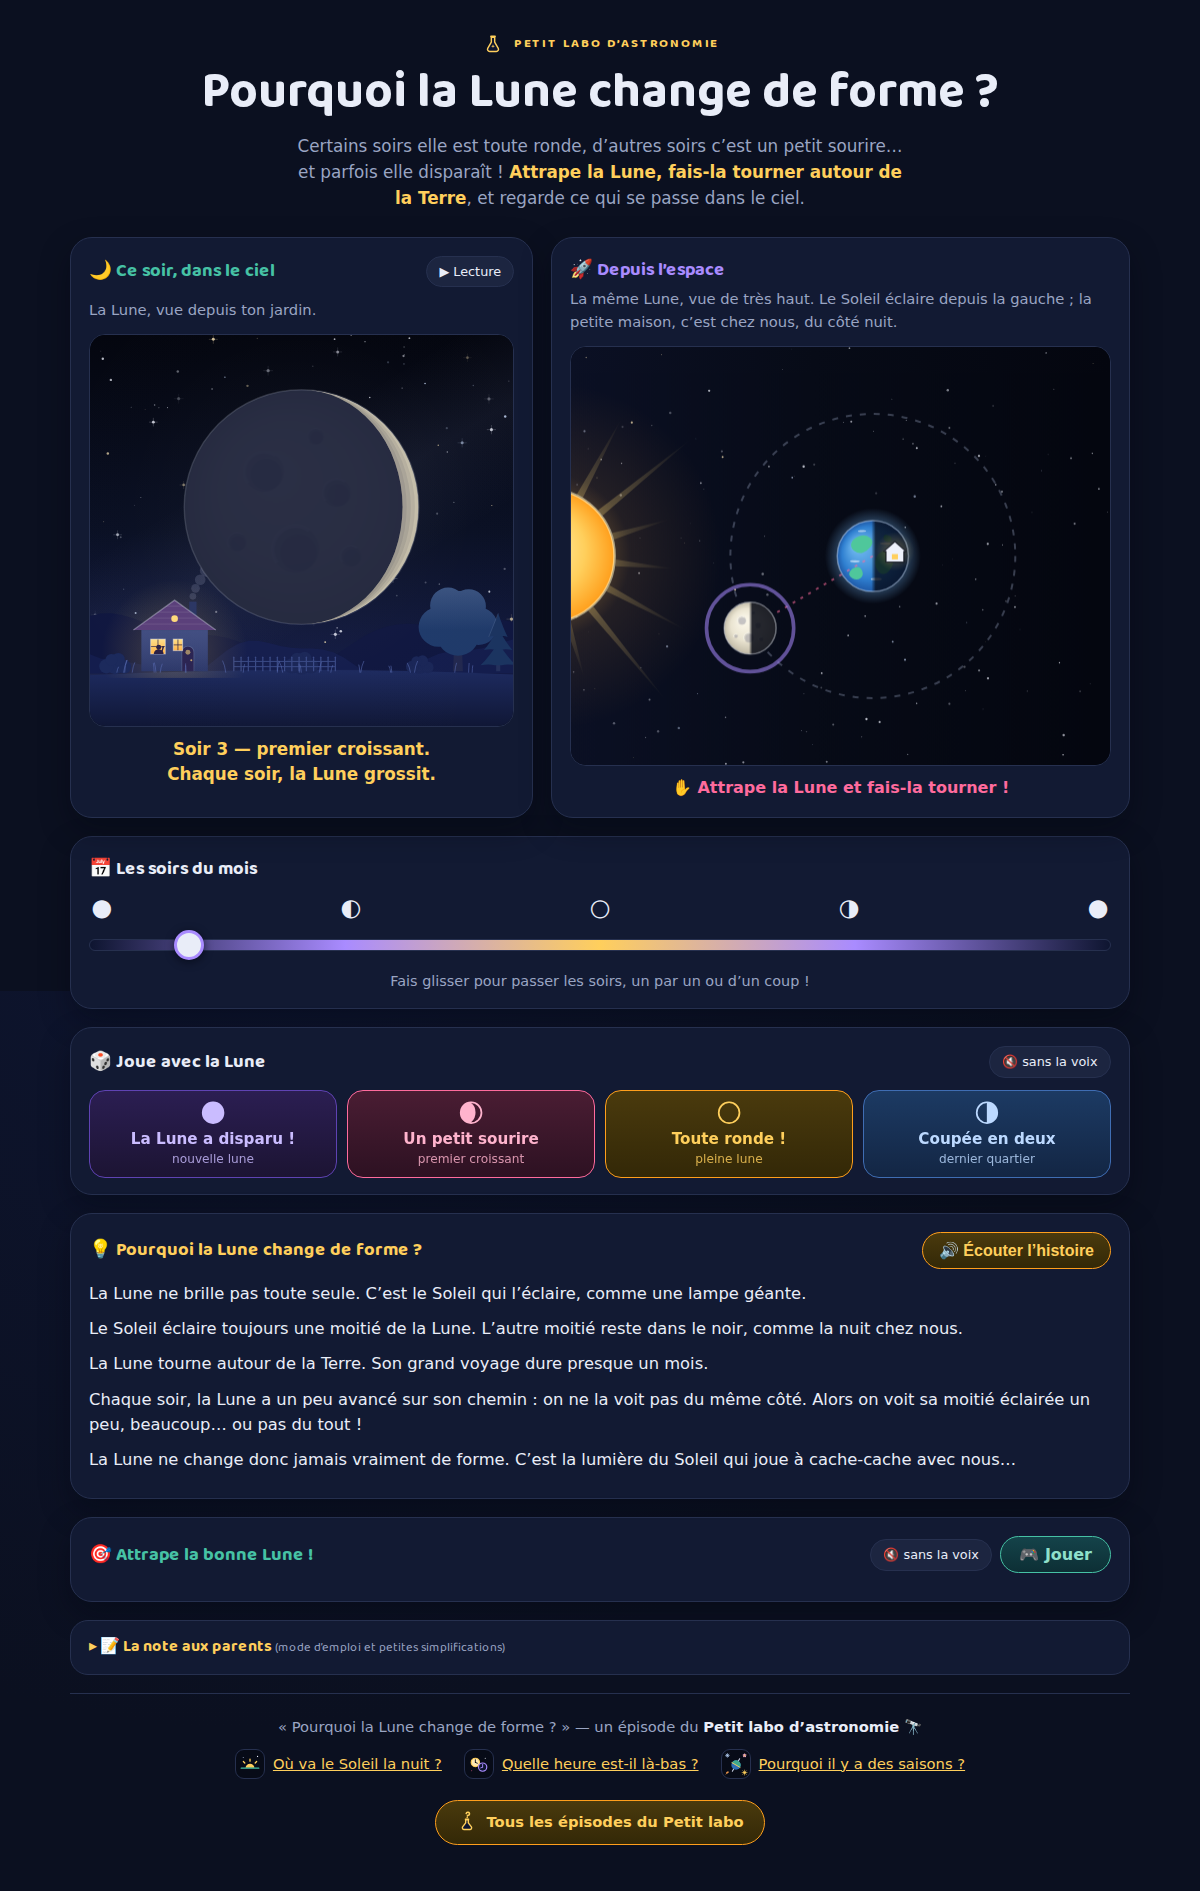
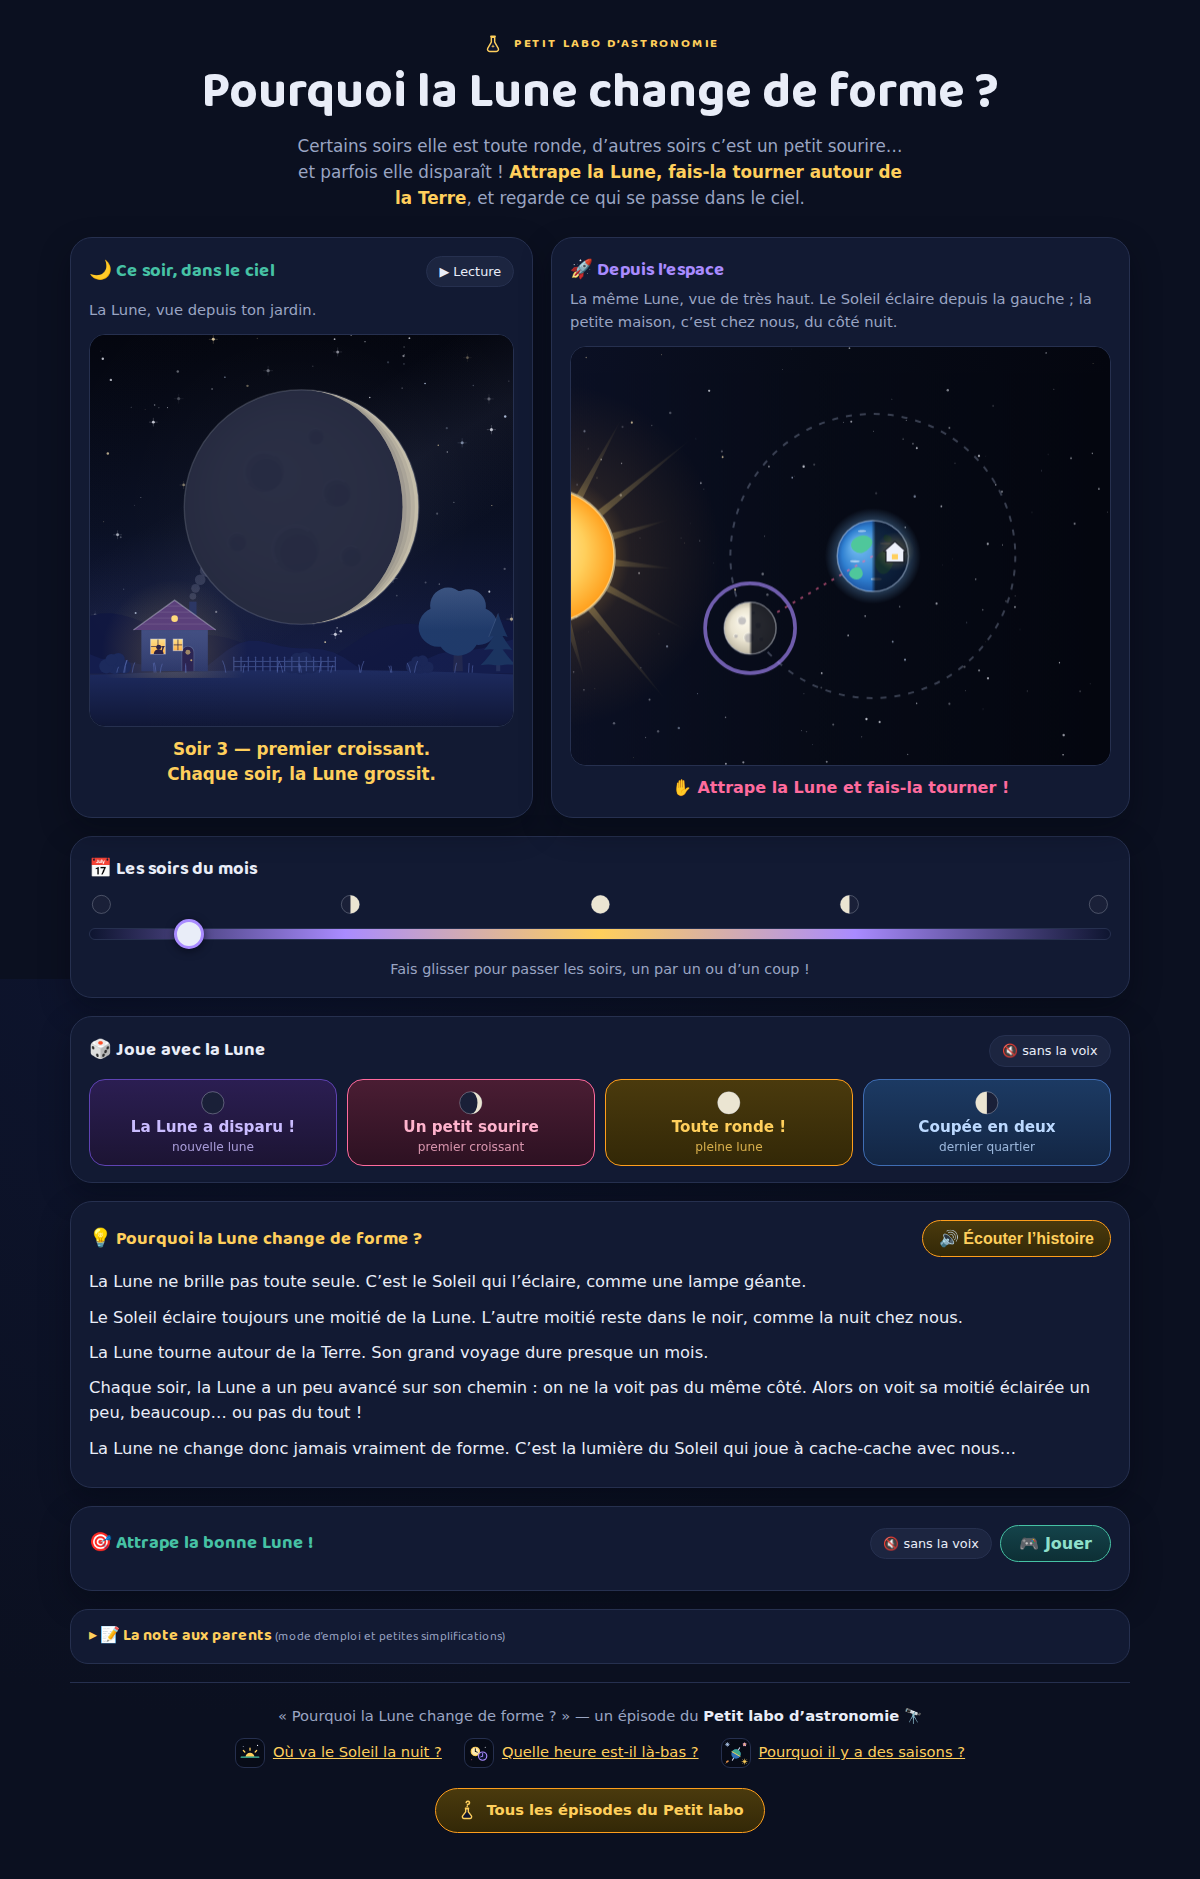
Les petites Lunes de la frise, des boutons et du jeu en SVG, aux couleurs du hublot
Les emoji 🌑🌒🌕🌗 sont jaunes sur iOS, d'un autre jaune sur Android, blancs
ailleurs : le site ne maîtrise ni leur dessin ni leur couleur, et ils
juraient avec la Lune ivoire du hublot. Nouveau module pur js/icone-lune.js :
un SVG inline calculé par la formule du modèle (formeLune), disque sombre
cerclé, partie éclairée en limbe + terminateur elliptique.

- La frise du curseur (nouvelle, premier quartier, pleine, dernier quartier,
  nouvelle), les quatre boutons-moments (la forme du soir où le bouton
  emmène) et la ligne du défi du jeu.
- Une seule licence de pictogramme : un croissant est porté à 20 %
  (FRACTION_ICONE_MIN) — au soir 3, les 7 % réels font un fil de 2 px sur
  26 px. Quartiers, pleine et nouvelle restent exacts.
- Les champs emoji du modèle restent (textes lus, tests), ils ne s'affichent
  plus. Les emoji de rubrique (📅 🎲 🎯) ne bougent pas.
- test/icone.test.mjs : inverse de la fraction, épaississement du bon côté,
  cibles du jeu, sens du terminateur dans le SVG.

Suite navigateur verte (frise, boutons et défi en SVG, aucun emoji de Lune),
captures docs/ régénérées.

Claude-Session: https://claude.ai/code/session_01NU1CBoUaNd48FiGT13WkuM

diff --git a/js/icone-lune.js b/js/icone-lune.js
@@ -1,0 +1,76 @@
+/*
+ * Les petites Lunes des pictogrammes (frise du curseur, boutons-moments,
+ * ligne du défi) : du SVG inline, aux couleurs de la Lune du hublot — jamais
+ * un emoji système, dont le dessin et la couleur changent d'un appareil à
+ * l'autre (jaune sur iOS, autre jaune sur Android, blanc ailleurs).
+ *
+ * La forme vient du modèle (formeLune). Une seule licence de pictogramme :
+ * une partie éclairée qui ferait moins de FRACTION_ICONE_MIN (20 %) est
+ * portée à 20 % du bon côté — à 26 px, un croissant du soir 3 (7 %) ne fait
+ * qu'un fil de 2 px. La forme exacte, c'est le hublot qui la montre.
+ *
+ * Aucun accès DOM : le module fabrique des chaînes, il se teste avec
+ * `node test/icone.test.mjs`.
+ */
+import { TAU, CYCLE_JOURS, formeLune } from './model.js';
+
+export var FRACTION_ICONE_MIN = 0.2;
+
+var LUNE_CLAIRE = '#ebe5d2';
+var LUNE_SOMBRE = '#1a2038';
+var LISERE = 'rgba(233, 237, 248, 0.35)';
+
+/* Le jour du cycle où la fraction éclairée vaut f, côté droit (Lune
+ * croissante) ou côté gauche (décroissante) — l'inverse de (1 − cos θ) / 2. */
+export function jourPourFraction(f, cote) {
+  var j = (Math.acos(1 - 2 * f) / TAU) * CYCLE_JOURS;
+  return cote === 'gauche' ? CYCLE_JOURS - j : j;
+}
+
+/* La forme d'icône d'un soir : celle du modèle, croissants épaissis. */
+export function formeIcone(jour) {
+  var forme = formeLune(jour);
+  if (forme.fraction > 0.005 && forme.fraction < FRACTION_ICONE_MIN) {
+    return formeLune(jourPourFraction(FRACTION_ICONE_MIN, forme.cote));
+  }
+  return forme;
+}
+
+/* La forme d'icône d'une cible du jeu (DEFIS[].cible). */
+var FRACTIONS_CIBLES = {
+  'nouvelle': [0, 'droite'],
+  'croissant-1': [FRACTION_ICONE_MIN, 'droite'],
+  'quartier-1': [0.5, 'droite'],
+  'pleine': [1, 'droite'],
+  'quartier-2': [0.5, 'gauche'],
+  'croissant-2': [FRACTION_ICONE_MIN, 'gauche']
+};
+export function formeIconeDefi(cible) {
+  var c = FRACTIONS_CIBLES[cible] || FRACTIONS_CIBLES.pleine;
+  return formeLune(jourPourFraction(c[0], c[1]));
+}
+
+/* Le SVG inline d'une Lune de forme { fraction, cote, k }. Disque sombre
+ * cerclé (la nouvelle lune reste visible), partie éclairée = limbe éclairé
+ * puis terminateur en arc d'ellipse de demi-axe |k| — le même dessin que le
+ * hublot, en une vingtaine de caractères de chemin. */
+export function svgLune(forme) {
+  var f = forme.fraction;
+  var eclaire = '';
+  if (f >= 0.995) {
+    eclaire = '<circle r="1" fill="' + LUNE_CLAIRE + '"/>';
+  } else if (f > 0.005) {
+    var droite = forme.cote !== 'gauche';
+    var k = forme.k;
+    if (Math.abs(k) < 0.01) k = k >= 0 ? 0.01 : -0.01;
+    /* du haut (0,−1) au bas (0,1) par le limbe éclairé (sens horaire = par la
+     * droite en repère SVG), puis retour par le terminateur : k > 0, il
+     * bombe vers la droite ; k < 0, vers la gauche */
+    var limbe = 'A 1 1 0 0 ' + (droite ? 1 : 0) + ' 0 1';
+    var terminateur = 'A ' + Math.abs(k).toFixed(3) + ' 1 0 0 ' + (k > 0 ? 0 : 1) + ' 0 -1';
+    eclaire = '<path d="M 0 -1 ' + limbe + ' ' + terminateur + ' Z" fill="' + LUNE_CLAIRE + '"/>';
+  }
+  return '<svg class="icone-lune" viewBox="-1.15 -1.15 2.3 2.3" aria-hidden="true" focusable="false">' +
+    '<circle r="1" fill="' + LUNE_SOMBRE + '" stroke="' + LISERE + '" stroke-width="0.08"/>' +
+    eclaire + '</svg>';
+}

diff --git a/js/main.js b/js/main.js
@@ -12,6 +12,7 @@ import {
 } from './model.js';
 import { creerVueOrbite } from './vue-orbite.js';
 import { creerVueHublot, geometrieLune } from './vue-hublot.js';
+import { svgLune, formeIcone, formeIconeDefi } from './icone-lune.js';
 
 /* ------------------------------------------------------------------ */
 /* L'état                                                              */
@@ -58,6 +59,11 @@ var canvasHublot = document.getElementById('canvas-hublot');
 var curseur = document.getElementById('curseur-jours');
 var phraseSoir = document.getElementById('phrase-soir');
 var grilleScenarios = document.getElementById('grille-scenarios');
+/* La frise au-dessus du curseur : nouvelle, premier quartier, pleine, dernier
+ * quartier, nouvelle — nos Lunes, pas les emoji système. */
+document.querySelector('.piste-emojis').innerHTML =
+  [0, CYCLE_JOURS / 4, CYCLE_JOURS / 2, (3 * CYCLE_JOURS) / 4, 0]
+    .map(function (j) { return '<span>' + svgLune(formeIcone(j)) + '</span>'; }).join('');
 var histoireScenario = document.getElementById('histoire-scenario');
 var boutonSonScenarios = document.getElementById('bouton-son-scenarios');
 var boutonSonJeu = document.getElementById('bouton-son-jeu'); /* le jumeau posé sur le jeu */
@@ -482,7 +488,9 @@ SCENARIOS.forEach(function (s) {
   /* scn-<id> : les couleurs de la famille (reprises d'ou-va-le-soleil) */
   bouton.className = 'bouton-scenario scn-' + s.id;
   bouton.setAttribute('aria-pressed', 'false');
-  bouton.innerHTML = '<span class="emoji">' + s.emoji + '</span>' +
+  /* l'icône montre la forme du soir où le bouton emmène (croissant épaissi
+   * en pictogramme — voir icone-lune.js), jamais l'emoji système */
+  bouton.innerHTML = '<span class="emoji">' + svgLune(formeIcone(s.jour)) + '</span>' +
     '<span class="titre"></span><span class="sous"></span>';
   bouton.querySelector('.titre').textContent = s.titre;
   bouton.querySelector('.sous').textContent = s.sousTitre;
@@ -847,7 +855,8 @@ function nouveauDefi() {
   etat.defiGagne = false;
   etat.bravoVisible = false;
   etat.defiEntreMs = null;
-  defiJeu.textContent = etat.defi.emoji + ' ' + etat.defi.nom + ' !';
+  /* la Lune du défi en pictogramme SVG (le nom vient du modèle, sans HTML) */
+  defiJeu.innerHTML = svgLune(formeIconeDefi(etat.defi.cible)) + ' ' + etat.defi.nom + ' !';
   defiJeu.hidden = false;
   bravoJeu.hidden = true;
   boutonEncore.hidden = true;

diff --git a/css/style.css b/css/style.css
@@ -217,6 +217,12 @@ main, header.entete, footer.pied-serie {
   padding: 4px 2px 0;
 }
 
+/* les pictogrammes de Lune (icone-lune.js) : la taille suit celle du texte
+   qu'ils accompagnent */
+.icone-lune { width: 1em; height: 1em; vertical-align: -0.15em; }
+.piste-emojis .icone-lune { display: block; }
+.defi .icone-lune { width: 1.1em; height: 1.1em; vertical-align: -0.2em; margin-right: 0.1em; }
+
 input[type="range"] {
   -webkit-appearance: none;
   appearance: none;
@@ -356,6 +362,7 @@ input[type="range"]:focus-visible { outline-offset: 4px; border-radius: 999px; }
 .bouton-scenario[aria-pressed="true"] { box-shadow: 0 0 0 3px rgba(255, 207, 92, 0.55); }
 
 .bouton-scenario .emoji { font-size: 1.6rem; line-height: 1; display: block; }
+.bouton-scenario .emoji .icone-lune { display: block; margin: 0 auto; }
 .bouton-scenario .titre { font-weight: 700; display: block; font-size: 0.95rem; }
 .bouton-scenario .sous { font-weight: 400; font-size: 0.76rem; opacity: 0.8; display: block; }
 

diff --git a/index.html b/index.html
@@ -98,9 +98,10 @@
     <!-- Le grand curseur maître : les soirs du mois. -->
     <section class="carte carte-curseur">
       <h2 id="titre-curseur">📅 Les soirs du mois</h2>
-      <div class="piste-emojis" aria-hidden="true">
-        <span>🌑</span><span>🌓</span><span>🌕</span><span>🌗</span><span>🌑</span>
-      </div>
+      <!-- les cinq Lunes de la frise (nouvelle, premier quartier, pleine,
+           dernier quartier, nouvelle) : des pictogrammes SVG posés par main.js
+           aux couleurs de la Lune du hublot — pas d'emoji système -->
+      <div class="piste-emojis" aria-hidden="true"></div>
       <input type="range" id="curseur-jours" min="0" max="29.5" step="0.05" value="2.5"
         aria-label="Choisis le soir du mois, de 0 à 29 : la Lune avance sur son orbite et change de forme.">
       <p class="legende-curseur">Fais glisser pour passer les soirs, un par un ou d’un coup !</p>

diff --git a/CLAUDE.md b/CLAUDE.md
@@ -95,6 +95,14 @@ Vérités verrouillées par `test/model.test.mjs` (à compléter, jamais supprim
   ne serait qu'un pointillé). Pas de chat ni d'animal : rien ne doit
   détourner l'œil de la Lune. Palette bleu nuit, une seule source chaude :
   les fenêtres.
+- **Les pictogrammes de Lune** (frise du curseur, boutons-moments, ligne du
+  défi) sont du **SVG inline** aux couleurs de la Lune (`js/icone-lune.js`,
+  pur, testé par `node test/icone.test.mjs`) — jamais les emoji 🌑🌒🌕🌗,
+  jaunes sur iOS, autres sur Android, blancs ailleurs : le site ne les
+  maîtrise pas. Une seule licence : un croissant d'icône est porté à
+  `FRACTION_ICONE_MIN` (20 %) — au soir 3, les 7 % réels font un fil de 2 px
+  sur 26 px. Le hublot, lui, montre la forme exacte. Les champs `emoji` du
+  modèle restent (textes, tests) mais ne s'affichent plus.
 - **L'espace** : Soleil en dégradé à seize rayons doux, lueur atténuée ;
   Terre en volume, continents organiques, nuages, atmosphère, **sans
   calottes polaires** ; la maison-repère est un **pictogramme posé SUR le
@@ -292,6 +300,7 @@ assets/audio/       la voix enregistrée du conteur (mp3 + manifest.json)
 css/style.css       palette commune de la série astronomie (fond nuit)
 js/model.js         modèle pur + constantes du récit + texteOral
 js/lune-disque.js   le disque de la Lune partagé (Lune pleine pré-rendue, phase)
+js/icone-lune.js    les pictogrammes de Lune en SVG (frise, boutons, défi)
 js/vue-orbite.js    vue du ciel (Soleil fixe, orbite, Terre, geste-signature)
 js/vue-hublot.js    la Lune vue du jardin (décor pré-rendu, médaillon)
 js/main.js          câblage : boucle rAF, curseur, scénarios, conteur, jeu
@@ -299,6 +308,7 @@ tools/voix-lib.mjs  corpus() : les 21 blocs parlés de l'épisode
 tools/build-voix.mjs  génération ElevenLabs (locale) + page d'écoute
 tools/controle-voix.mjs  contrôle « sans oreilles » (ffmpeg + whisper)
 test/model.test.mjs tests du modèle (Node)
+test/icone.test.mjs tests des pictogrammes (formes, SVG)
 test/voix.test.mjs  tests de la voix (corpus, couverture, manifeste)
 docs/               captures d'écran du README
 ```

diff --git a/README.md b/README.md
@@ -100,10 +100,12 @@ index.html          la page unique
 css/style.css       le thème de la série astronomie
 js/model.js         le modèle pur (géométrie, phases, scénarios, défis)
 js/lune-disque.js   le disque de la Lune, partagé par les vues (pré-rendu)
+js/icone-lune.js    les petites Lunes en SVG de la frise, des boutons et du jeu
 js/vue-orbite.js    la vue du ciel (canvas) + le geste-signature
 js/vue-hublot.js    le hublot : la Lune vue du jardin (canvas) et le médaillon
 js/main.js          le câblage : boucle rAF, curseur, scénarios, conteur, jeu
 test/model.test.mjs les tests du modèle (Node, sans navigateur)
+test/icone.test.mjs les tests des pictogrammes de Lune
 docs/               les captures d'écran
 ```
 
